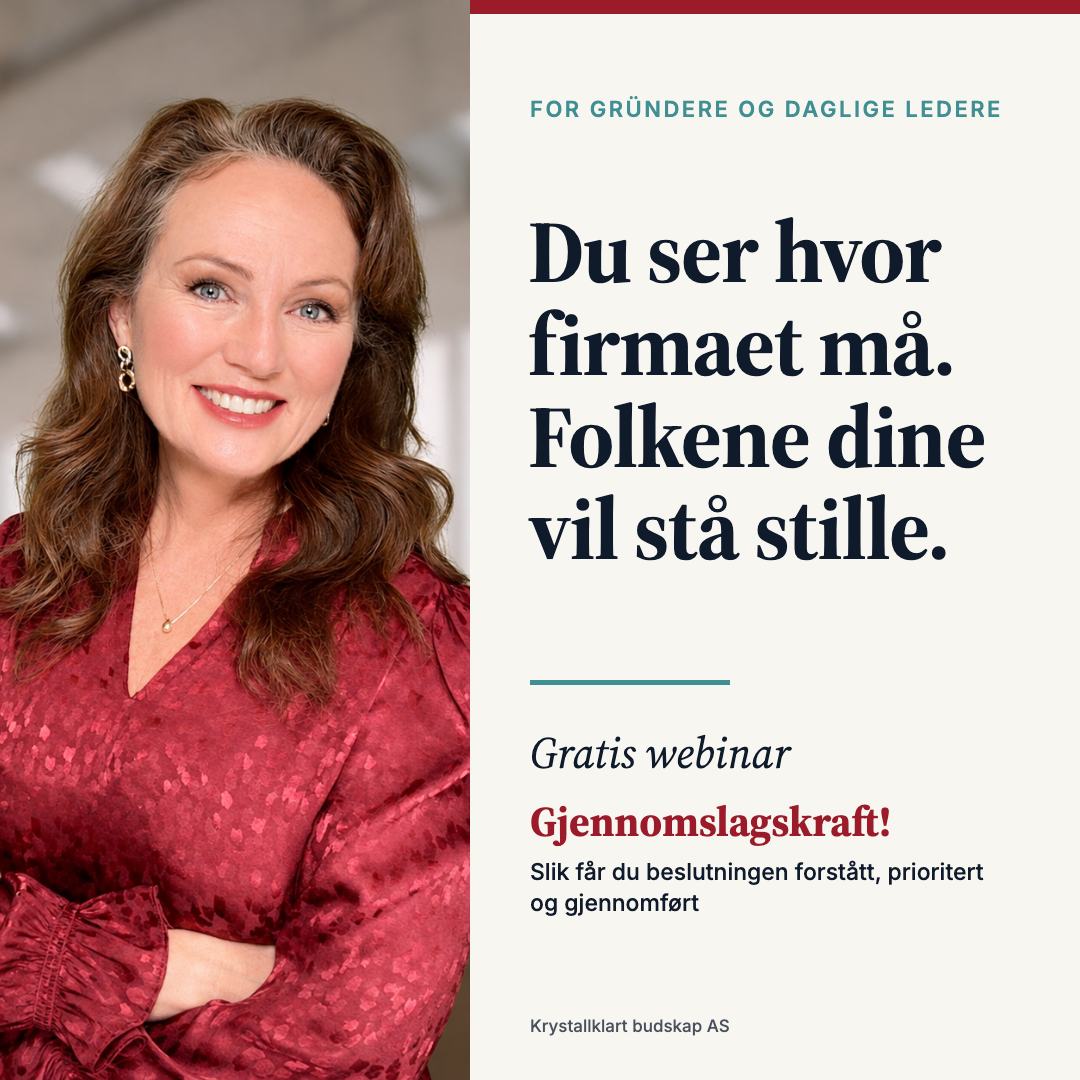
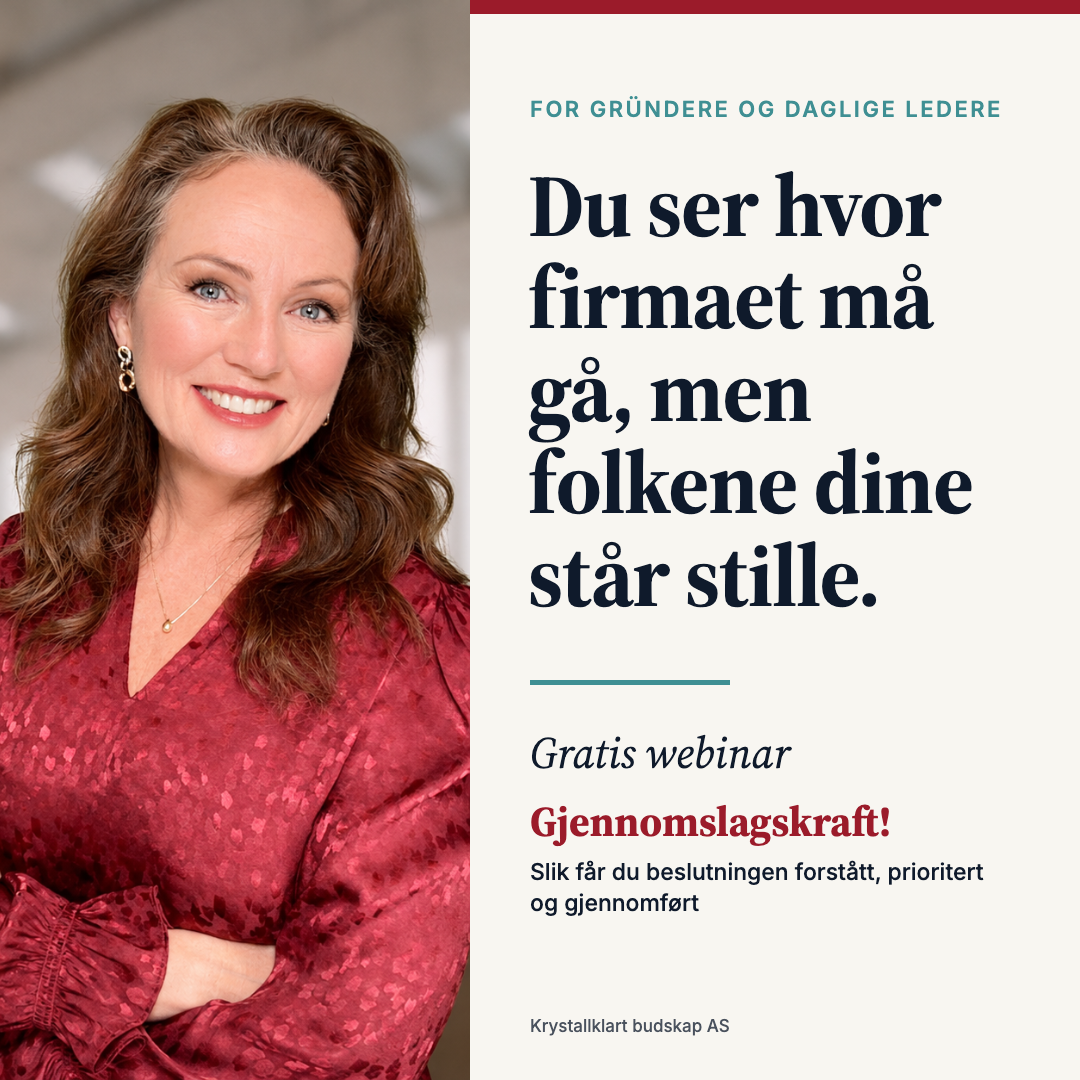
content: apply Anne Karin's ad texts for S1 image, S3 video and S3 image

Changed region(s): [[0.4889, 0.1528, 0.9167, 0.5806]]

diff --git a/index.html b/index.html
@@ -439,15 +439,15 @@ For ledere med personalansvar.</p>
 <p><strong>CTA:</strong> Gratis webinar. → Meld deg på: [LINK]</p>
 <h3>🖼 S1 · ANNONSE – «Forklare på nytt» (tid)</h3>
 <p><a href="images/s1-tid.png" target="_blank"><img class="ad" src="images/s1-tid.png" alt="Annonsebilde S1"></a></p>
-<p>Den nye annonsen om tid. Ledere vil ha mer tid, og mye tid går med til å forklare det samme flere ganger, eller til nye møter om saker som egentlig var avgjort.</p>
+<p>Tekst fra Anne Karin (Annonsetekster.docx, 25.11). Den nye annonsen om tid. Ledere vil ha mer tid, og mye tid går med til å forklare det samme flere ganger, eller til nye møter om saker som egentlig var avgjort.</p>
 <p><strong>Tekst på bildet:</strong> FOR LEDERE MED FULL KALENDER / Hvor mye av uken går med til å forklare ting på nytt?</p>
 <p><strong>Caption:</strong>
 For ledere med personalansvar som har mer å gjøre enn tiden strekker til.</p>
-<p>Tenk på møtene du har hatt den siste måneden om saker som egentlig var bestemt. Oppfølgingsmøter, avklaringer og e-poster for å forklare hva du mente. Mye av det kommer av at budskapet ikke var tydelig nok første gangen.</p>
-<p>De lederne som får raskest gjennomslag, er sjelden de som snakker mest. De vet hva de vil ha ja til før møtet begynner, og de sier det kort.</p>
-<p>I gratiswebinaret mitt «Gjennomslagskraft» får du noen enkle grep du kan bruke allerede i neste møte, slik at du bruker mindre tid på å forklare og får beslutningene raskere.</p>
-<p>Jeg heter Anne Karin Nordskag. Jeg har trent ledere i Equinor, Aker BP, TINE, SpareBank 1 og Norges Bank, og har kommentert retorikk på NRK.</p>
-<p>Webinaret er laget for deg som har lederansvar, og bygger på situasjonene du står i som leder.</p>
+<p>Tenk på hvor mange møter du har hatt den siste måneden om saker du trodde var avklart og besluttet, bare for å oppdage at folk hadde forstått det forskjellig. Og så fører det til oppfølgingsmøter, nye avklaringer og e-poster for å forklare hva du egentlig mente. Mye av dette kunne vært unngått med et tydeligere budskap fra starten av.</p>
+<p>Løsningen er ikke å forklare mer for å få gjennomslag. Du trenger å vite hva du vil ha ja til, komme til poenget og vise hvorfor saken er viktig for dem du skal ha med deg.</p>
+<p>I gratiswebinaret «Gjennomslagskraft» får du enkle grep du kan bruke allerede i neste møte, slik at du bruker mindre tid på å forklare og kommer raskere fram til en beslutning.</p>
+<p>Jeg heter Anne Karin Nordskag. Jeg har trent ledere i Aker BP, TINE, KS, SpareBank 1 og Norges Bank, og har kommentert retorikk på NRK.</p>
+<p>Webinaret er for deg som har personal- og resultatansvar og som vil få gjennomslag hos sjefen og i ledergruppen, og få medarbeiderne med på å realisere planene.</p>
 <p><strong>CTA:</strong> Gratis webinar. → Meld deg på: [LINK]</p>
 <hr />
 <h2 id="s2">S2 – Strategien som ikke når ut</h2>
@@ -473,24 +473,25 @@ For toppledere og direktører som skal få en strategi gjennomført i hele organ
 <hr />
 <h2 id="s3">S3 – Gründer i vekst</h2>
 <h3>🎬 S3 · VIDEO – «Flaskehalsen»</h3>
-<p>Anne Karin likte denne. Bare skrivemåten er rettet.</p>
+<p>Manus til videoen. Tekst fra Anne Karin (Annonsetekster.docx, 25.11).</p>
 <p><strong>Tekst på skjerm (0–3 sek):</strong> For gründere og daglige ledere med egne ansatte.
 <strong>Tekst på skjerm (3–6 sek):</strong> Du bygde firmaet på faget ditt. Nå beveger ingenting seg uten deg.</p>
-<p>Du startet for deg selv fordi du er god på faget. Men firmaet vokser. Du har ansatt nummer fem, seks, sju, og plutselig går halve uken med til å forklare det samme om igjen.</p>
-<p>Alt stopper hos deg. Teamet venter på deg i stedet for å kjøre selv. Du selger faget til kundene helt fint, men å selge inn visjonen til dine egne folk, det sitter ikke. Så du blir flaskehalsen.</p>
-<p>Dette er ikke et personalproblem. Det handler om hvordan budskapet ditt forplanter seg. Når du formidler tydelig og overbevisende nok, kjører teamet i riktig retning uten at du står bak dem.</p>
-<p>Jeg heter Anne Karin Nordskag. Jeg har trent ledere i Equinor, Aker BP, TINE, SpareBank 1 og Norges Bank, og har siden 2011 hjulpet gründere med å få folkene sine med seg.</p>
-<p>Leder du et firma i vekst og kjenner deg igjen? Bli med på det gratis webinaret mitt. Klikk på linken under.</p>
-<h3>🖼 S3 · ANNONSE – «Du ser veien. Folkene dine vil stå stille.»</h3>
+<p>Du startet for deg selv fordi du er god på faget. Men firmaet vokser. Du har ansatt nummer fem, seks og sju, og plutselig går halve uken med til å forklare det samme om igjen.</p>
+<p>Medarbeiderne kommer til deg med spørsmål og venter på at du skal ta avgjørelser. Du vil at de skal ta mer ansvar, men blir stadig dratt inn i det de skulle håndtert selv.</p>
+<p>Du er god til å forklare kundene hvorfor de skal velge dere. Men har du vært like tydelig overfor medarbeiderne om hva dere skal få til, hva de skal prioritere, og hva de kan bestemme selv?</p>
+<p>Når de er usikre på hva du forventer, spør de deg. Eller de venter. Og du blir sittende med både dine egne og andres oppgaver.</p>
+<p>Skal du få mer tid til å utvikle firmaet, trenger medarbeiderne å forstå hvor dere skal, hvorfor det er viktig, og hvordan de kan bidra. Da blir det lettere for dem å ta ansvar og jobbe selvstendig, uten å sjekke alt med deg først.</p>
+<p>Jeg heter Anne Karin Nordskag. Jeg har trent ledere i Aker BP, TINE, SpareBank 1 og Norges Bank, og har siden 2011 hjulpet gründere med å kommunisere tydelig, slik at medarbeiderne tar mer ansvar og jobber selvstendig.</p>
+<p>Leder du et firma i vekst og kjenner deg igjen? Bli med på gratiswebinaret mitt «Gjennomslagskraft». Klikk på lenken og meld deg på.</p>
+<h3>🖼 S3 · ANNONSE – «Du ser veien. Folkene dine står stille.»</h3>
 <p><a href="images/s3-grunder.png" target="_blank"><img class="ad" src="images/s3-grunder.png" alt="Annonsebilde S3"></a></p>
-<p>Tittelen beholdes. Teksten er skrevet om.</p>
-<p><strong>Tekst på bildet:</strong> FOR GRÜNDERE OG DAGLIGE LEDERE / Du ser hvor firmaet må. Folkene dine vil stå stille.</p>
+<p>Tekst fra Anne Karin (Annonsetekster.docx, 25.11).</p>
+<p><strong>Tekst på bildet:</strong> FOR GRÜNDERE OG DAGLIGE LEDERE / Du ser hvor firmaet må gå, men folkene dine står stille.</p>
 <p><strong>Caption:</strong>
 For gründere og daglige ledere med egne ansatte, i et firma som vokser.</p>
-<p>Firmaet vokser fortere enn du klarer å få folk med deg. Du forklarer hvorfor dere må gjøre ting annerledes, viser tallene og legger fram planen, men det føles fortsatt tungt å få noe til å flytte seg. Presser du for hardt, er det gjerne de beste som slutter.</p>
-<p>Flere tall hjelper sjelden. Det som virker bedre, er å forklare endringen slik at folkene dine ser hvorfor den betyr noe for dem, og selv har lyst til å være med.</p>
-<p>Jeg heter Anne Karin Nordskag. Jeg har trent ledere i Equinor, Aker BP, TINE, SpareBank 1 og Norges Bank, og jeg holder kurs i endringskommunikasjon.</p>
-<p>Webinaret er laget for deg som leder et firma med egne ansatte.</p>
+<p>Firmaet vokser, og du ser at dere må endre måten dere jobber på. Du forklarer hvorfor, viser tallene og legger fram planen. Likevel fortsetter medarbeiderne som før. Du blir utålmodig. Hvor mange ganger må du egentlig forklare det?</p>
+<p>Du kan ha gode argumenter og en gjennomtenkt plan, og likevel streve med å få folk med deg. Hvordan skaper du trygghet og engasjement for endringene, slik at du slipper å drive alt framover alene?</p>
+<p>Jeg heter Anne Karin Nordskag. Jeg har trent ledere i Equinor, Aker BP, TINE og SpareBank 1. I gratiswebinaret «Gjennomslagskraft» viser jeg deg hvordan du kan kommunisere tydeligere og få medarbeiderne med på endring.</p>
 <p><strong>CTA:</strong> Gratis webinar. → Meld deg på: [LINK]</p>
 <hr />
 <h2>Endringer etter Anne Karins kommentarer</h2>
@@ -500,9 +501,10 @@ For gründere og daglige ledere med egne ansatte, i et firma som vokser.</p>
 <li><strong>«Båsen ingen snakker om»</strong> er tatt ut.</li>
 <li><strong>AI-språk:</strong> avsnittene Anne Karin markerte i S1, S2 og S3 er skrevet om til vanlig muntlig norsk. Se språkreglene øverst.</li>
 <li><strong>Skrivemåte:</strong> <em>ledergruppen</em> overalt (også på S2-bildet), og <em>uken</em>, <em>folkene</em>.</li>
-<li><strong>Beholdt uendret:</strong> S2-tittelen og -bildeteksten, avsnittet «Det skjer ikke fordi strategien er feil…», S3-videoen «Flaskehalsen» og S3-tittelen.</li>
+<li><strong>Beholdt uendret:</strong> S2-tittelen og -bildeteksten, avsnittet «Det skjer ikke fordi strategien er feil…», S3-videoen «Flaskehalsen» og S3-tittelen (senere erstattet av Anne Karins egne tekster, se under).</li>
 <li><strong>Kundelinje:</strong> «Jeg har trent ledere i Equinor, Aker BP, TINE, SpareBank 1 og Norges Bank, og har kommentert retorikk på NRK.» (Anne Karins formulering, 25.11.)</li>
 <li><strong>S2-bildet:</strong> undertekst «Slik får du strategien forstått, prioritert og gjennomført.»</li>
+<li><strong>Annonsetekster.docx (25.11):</strong> Anne Karins egne tekster til S1-bildet, S3-videoen og S3-bildet er lagt inn uendret. S3-bildet har ny tittel: «Du ser hvor firmaet må gå, men folkene dine står stille.»</li>
 <li>Ingen dato eller klokkeslett i annonsene, så de kan brukes evergreen.</li>
 </ul>
 <h2>Registreringsskjema webinar 1</h2>
